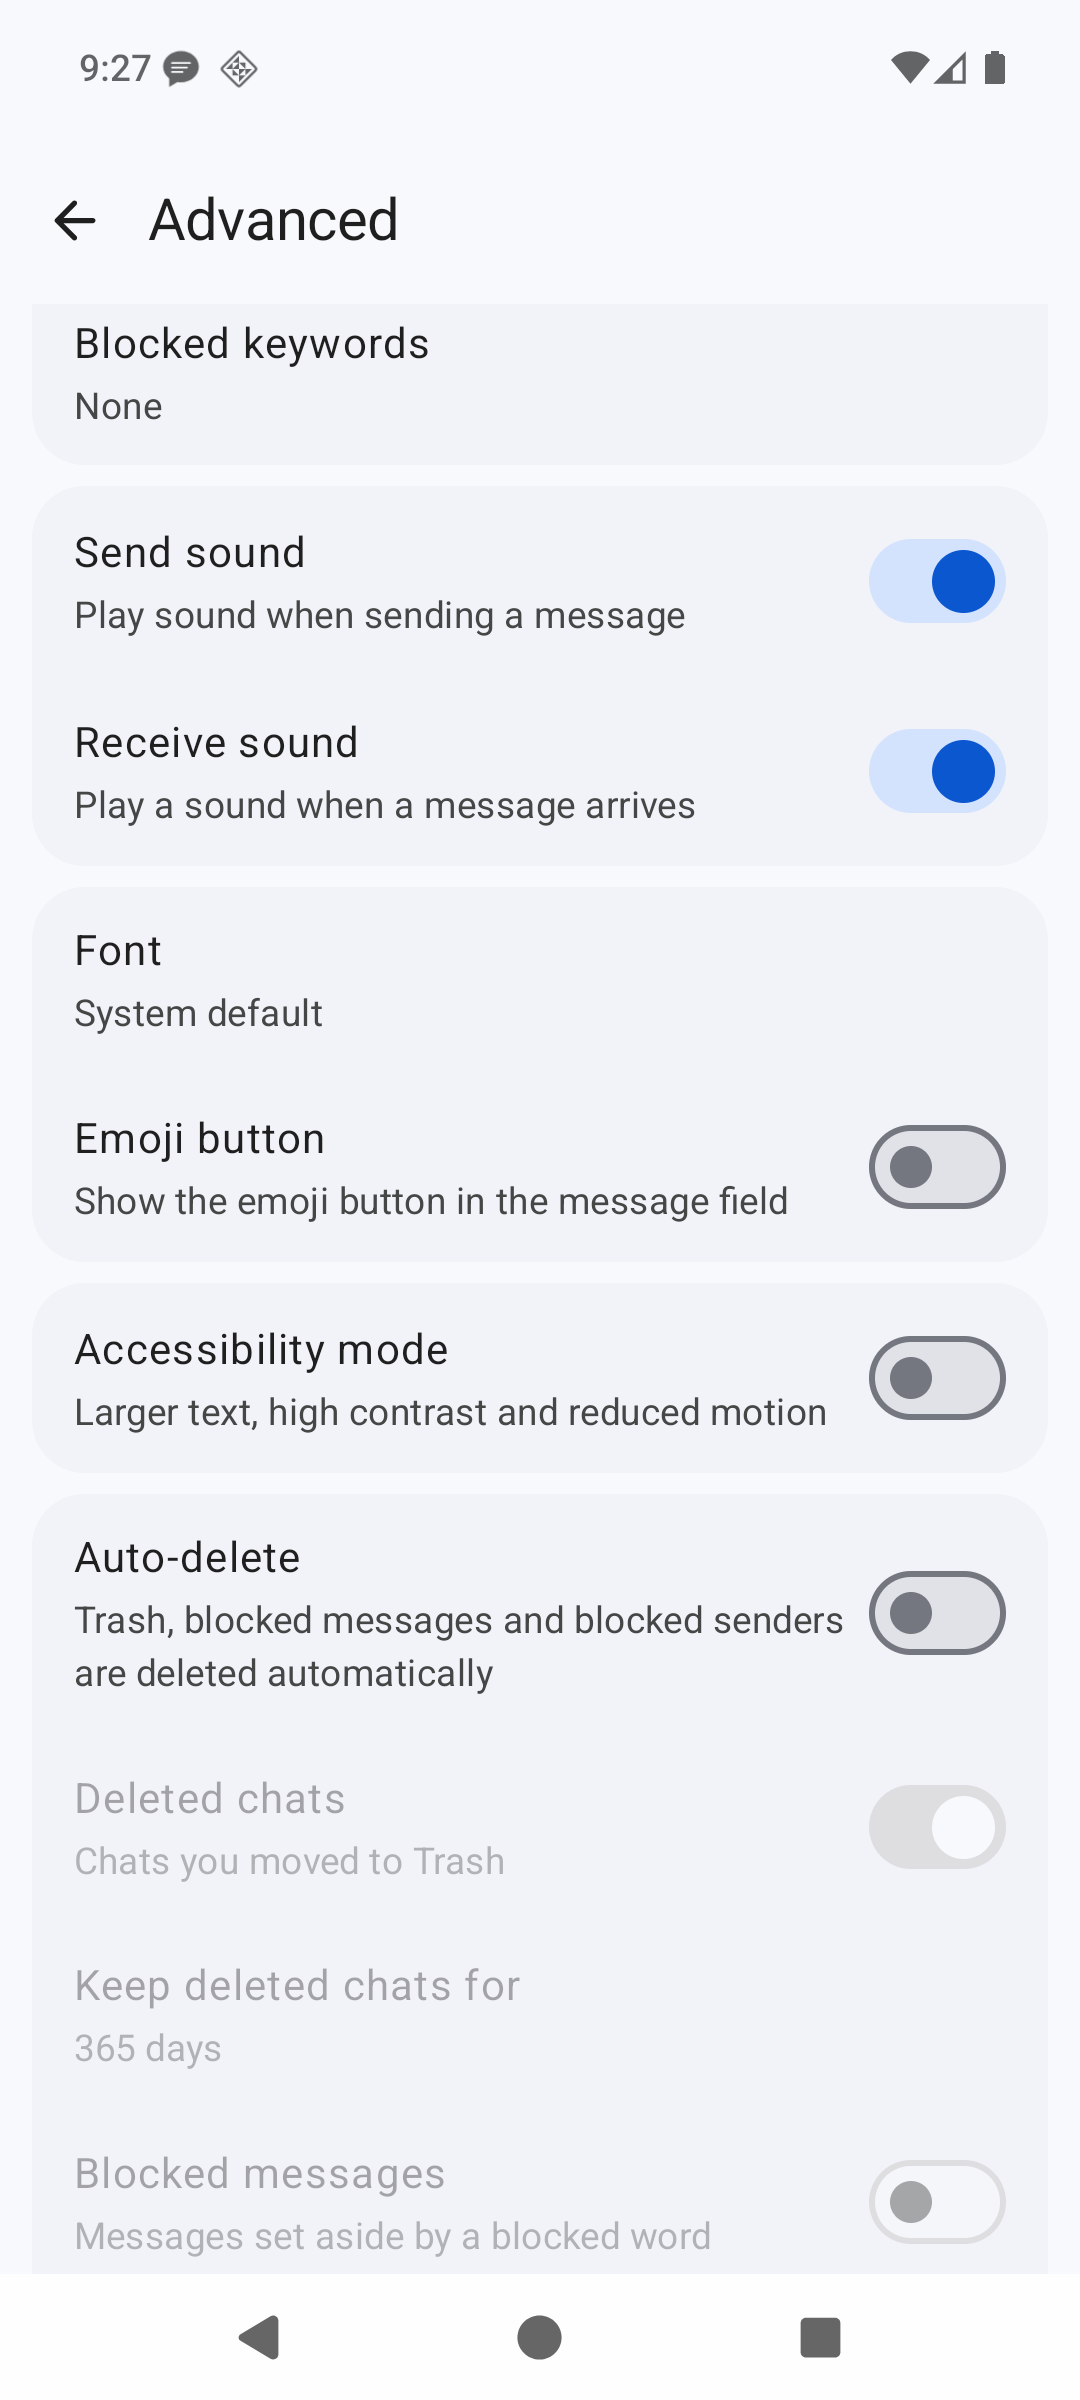
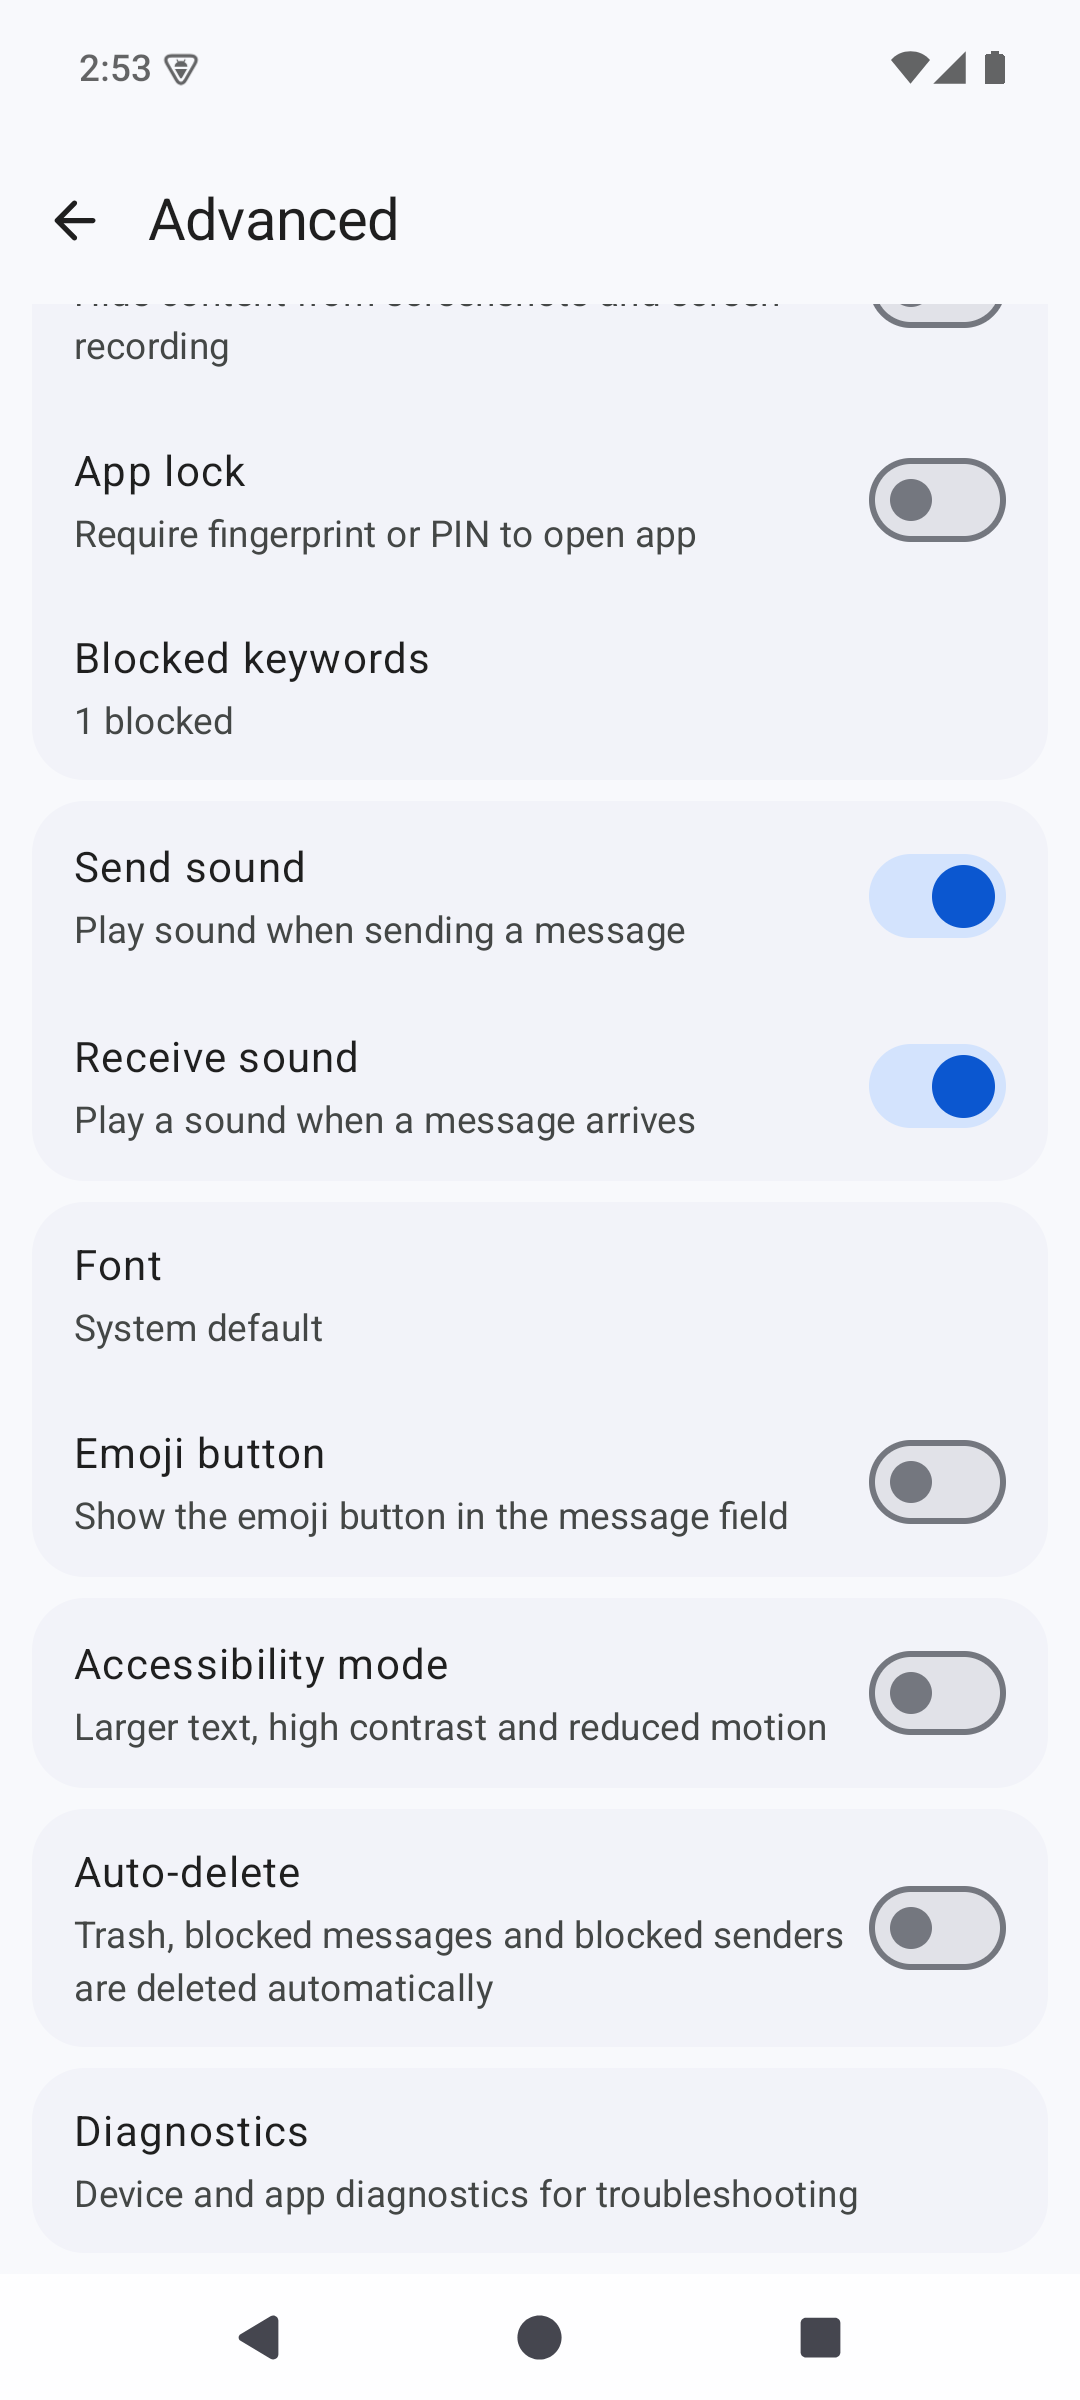
chore(screenshots): refresh the F-Droid set with real contacts and photos
Every avatar was a placeholder because the demo inbox and the demo phone book
used different numbers, so the app's phone_lookup/<conversation address> photo
resolution never matched anything. scripts/demo-data.sh is now the single
roster both seeders read, and each person gets a generated monogram photo
saved into the phone book under a proper name; brand and spam senders
deliberately keep the app's own letter-tile avatar.

The old folder had accumulated duplicates and superseded shots (the
08/09/10/11-spam-blocked* set against a newer 03/04/06/07 one, plus dead
02-chat-* files). Replaced with one curated 15-shot run: conversations, chat,
contact details, group chat, new chat, Spam & Blocked (both tabs), trash,
schedule send, auto-delete, settings, grouped notification, and three dark
screens. README table updated to match.

Regenerate with:
  scripts/insert-demo-contacts.sh && scripts/seed-demo-conversations.sh --wipe
  ANDROID_SERIAL=emulator-5554 bash scripts/take-fdroid-screenshots.sh
  bash scripts/test-demo-contacts.sh   # 91 assertions guarding the demo data

diff --git a/README.md b/README.md
@@ -27,13 +27,17 @@ Built with **Kotlin + Jetpack Compose + Material 3 (M3)**. No internet permissio
 
 ## Screenshots
 
-| Conversations | Grouped bubbles | OTP highlighting | New chat |
+| Conversations | Chat | Contact details | New chat |
 |---|---|---|---|
-| ![Conversations](fastlane/metadata/android/en-US/images/phoneScreenshots/01-conversations.png) | ![Grouped bubbles](fastlane/metadata/android/en-US/images/phoneScreenshots/02-chat-grouped-bubbles.png) | ![OTP highlighting](fastlane/metadata/android/en-US/images/phoneScreenshots/05-chat-otp.png) | ![New chat](fastlane/metadata/android/en-US/images/phoneScreenshots/06-new-chat.png) |
+| ![Conversations](fastlane/metadata/android/en-US/images/phoneScreenshots/01-conversations.png) | ![Chat](fastlane/metadata/android/en-US/images/phoneScreenshots/02-chat.png) | ![Contact details](fastlane/metadata/android/en-US/images/phoneScreenshots/03-contact-details.png) | ![New chat](fastlane/metadata/android/en-US/images/phoneScreenshots/05-new-chat.png) |
 
-| Work chat | Alex chat | Settings |
-|---|---|---|
-| ![Work chat](fastlane/metadata/android/en-US/images/phoneScreenshots/03-chat-work.png) | ![Alex chat](fastlane/metadata/android/en-US/images/phoneScreenshots/04-chat-alex.png) | ![Settings](fastlane/metadata/android/en-US/images/phoneScreenshots/07-settings.png) |
+| Group chat | Spam &amp; Blocked | Trash | Schedule send |
+|---|---|---|---|
+| ![Group chat](fastlane/metadata/android/en-US/images/phoneScreenshots/04-group-chat.png) | ![Spam & Blocked](fastlane/metadata/android/en-US/images/phoneScreenshots/06-spam-blocked.png) | ![Trash](fastlane/metadata/android/en-US/images/phoneScreenshots/08-trash.png) | ![Schedule send](fastlane/metadata/android/en-US/images/phoneScreenshots/09-schedule-send.png) |
+
+| Auto-delete | Notifications | Settings | Dark mode |
+|---|---|---|---|
+| ![Auto-delete](fastlane/metadata/android/en-US/images/phoneScreenshots/10-auto-delete.png) | ![Notifications](fastlane/metadata/android/en-US/images/phoneScreenshots/12-notification-grouped.png) | ![Settings](fastlane/metadata/android/en-US/images/phoneScreenshots/11-settings.png) | ![Dark mode](fastlane/metadata/android/en-US/images/phoneScreenshots/13-conversations-dark.png) |
 
 ## Download
 
